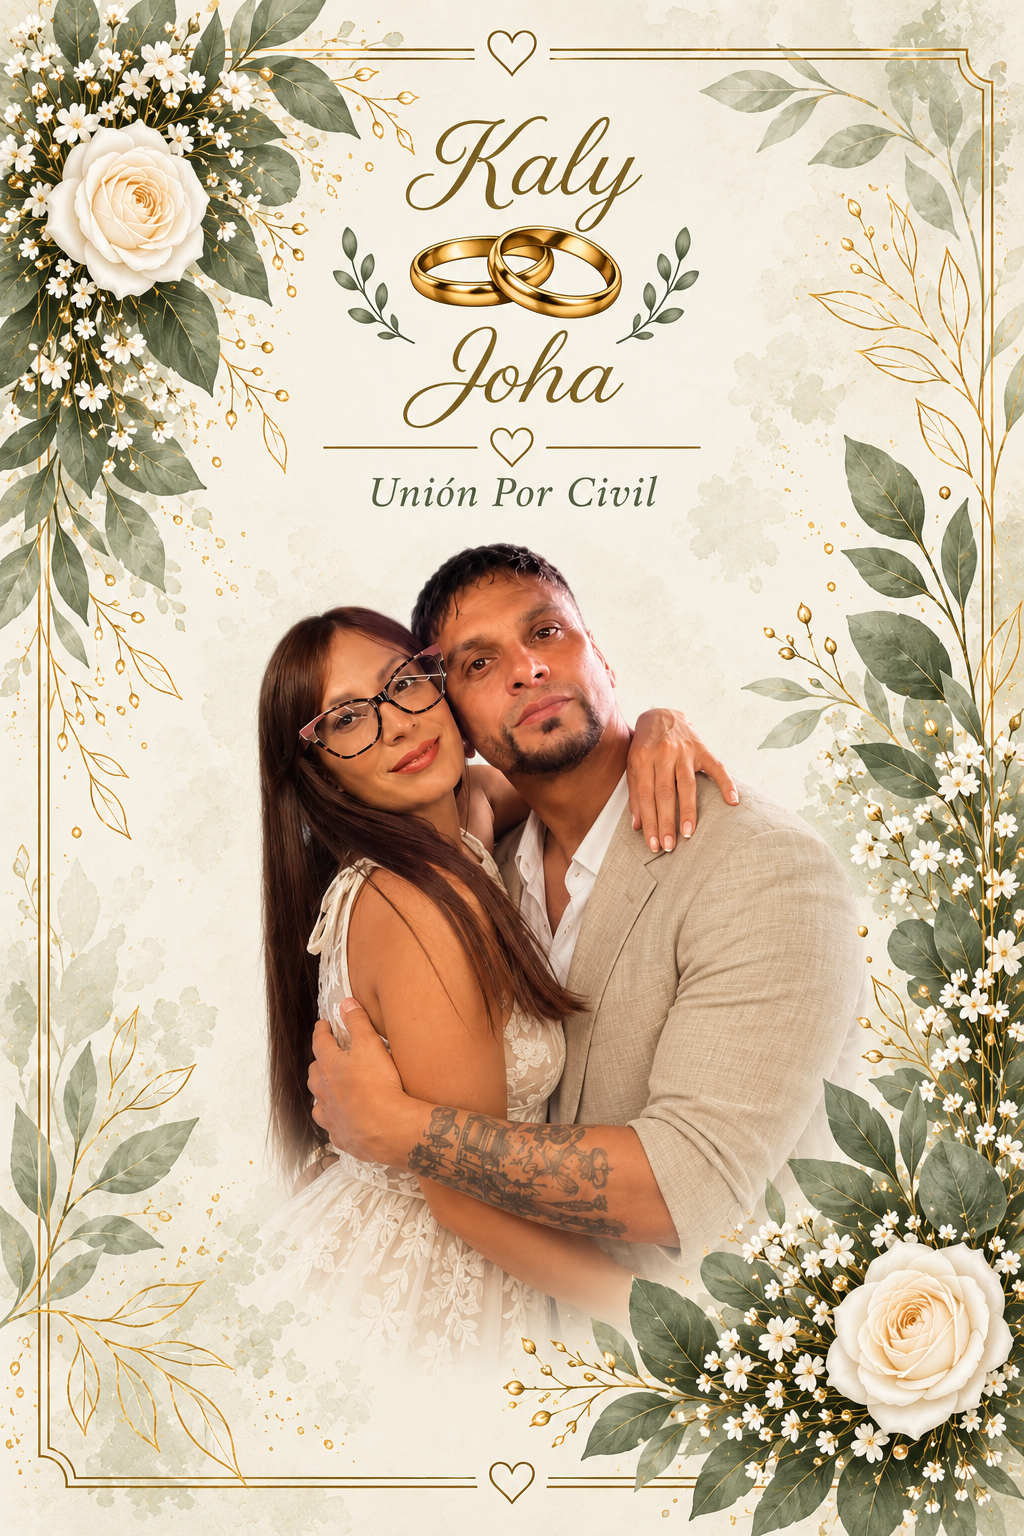
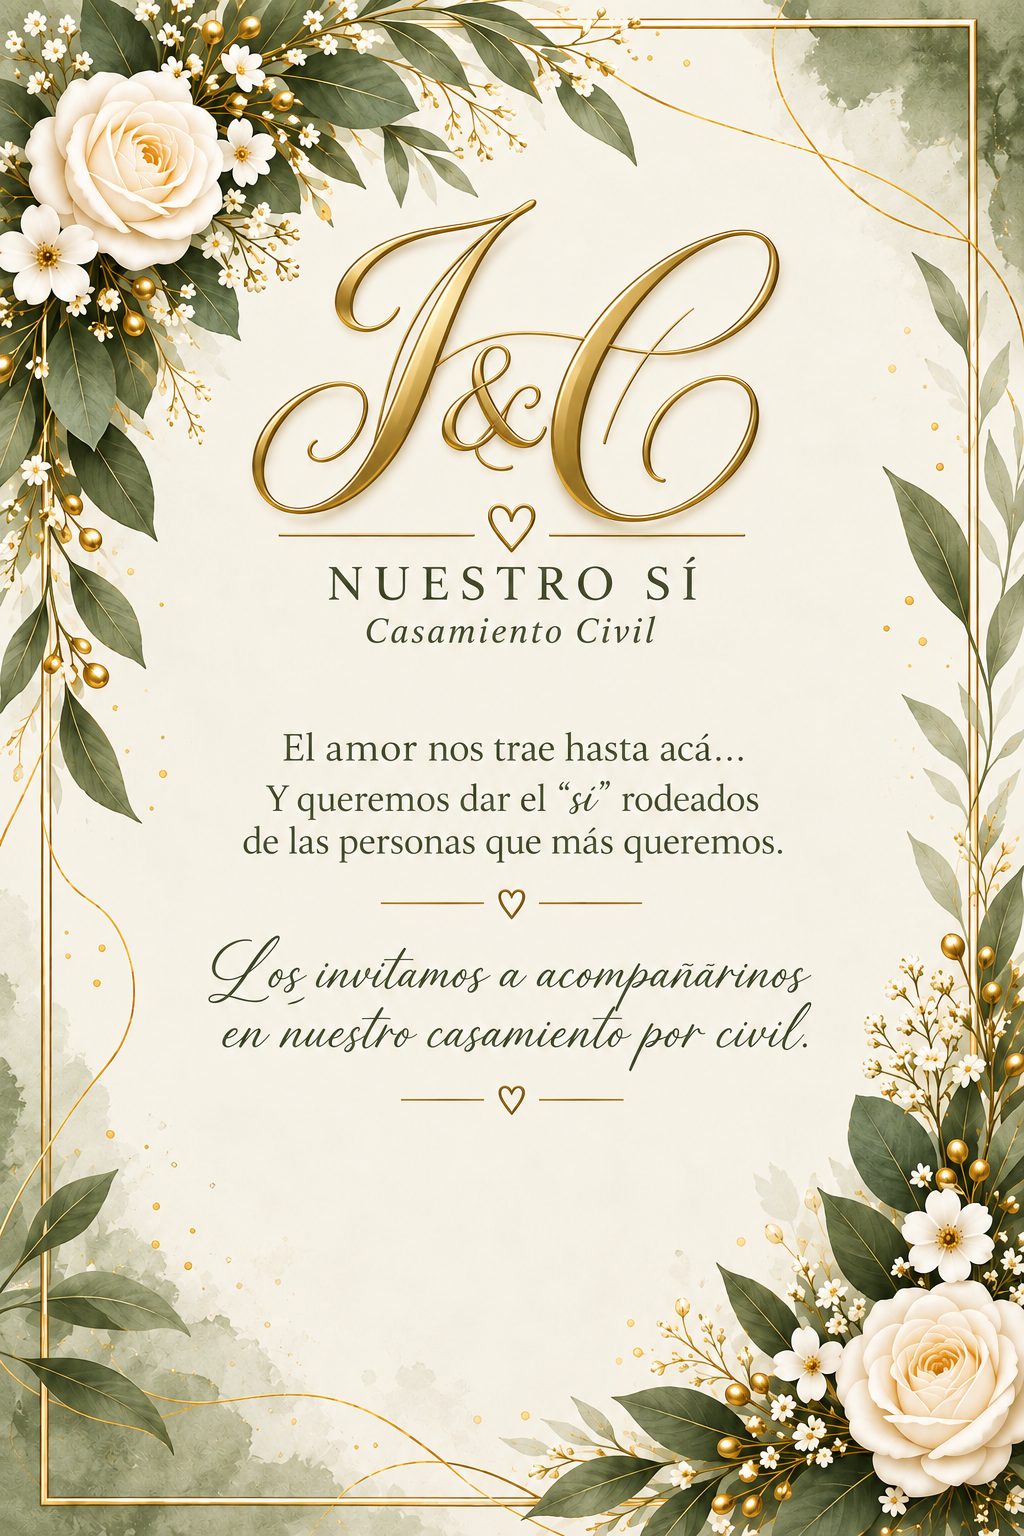
feat: refina datos y presentacion de boda Kaly y Joha

diff --git a/js/invitacion.js b/js/invitacion.js
@@ -497,6 +497,8 @@ function renderEventInfoPage(section, context) {
     const image = context.getSectionImage(section, context.pageIndex);
     const inlineMedia = shouldRenderContainedMedia(section);
     const locationText = firstSectionValue(data.locationText, data.place, getLocationText(event));
+    const addressText = firstSectionValue(data.address, event.lugarDireccion, event.location?.address, locationText);
+    const cityText = firstSectionValue(data.city, event.lugarCiudad, event.location?.city);
     const message = data.showMessage === false ? "" : firstSectionValue(data.message);
 
     return `
@@ -505,10 +507,10 @@ function renderEventInfoPage(section, context) {
                 ${image && inlineMedia ? renderSectionMedia(section, image) : ""}
                 ${message ? `<p class="page-message">${escapeHtml(message)}</p>` : ""}
                 ${renderDetailsList([
-        renderDetail("calendar", "Fecha", firstSectionValue(data.dateText, event.fechaTexto)),
-        renderDetail("clock", "Horario", firstSectionValue(data.timeText, event.horarioTexto)),
-        renderDetail("pin", "Lugar", locationText)
-    ])}
+                    renderDetail("calendar", "Fecha", firstSectionValue(data.dateText, event.fechaTexto)),
+                    renderDetail("clock", "Horario", firstSectionValue(data.timeText, event.horarioTexto)),
+                    renderAddressDetail(addressText, cityText)
+                ])}
             </div>
             ${context.renderBrochureNavigation(context.pageCount)}
         </section>
@@ -521,6 +523,7 @@ function renderLocationPage(section, context) {
     const hasEventInfo = hasEventInfoDetails(event);
     const locationText = firstSectionValue(data.locationText, data.place, getLocationText(event));
     const addressText = firstSectionValue(data.address, event.lugarDireccion, locationText);
+    const cityText = firstSectionValue(data.city, event.lugarCiudad, event.location?.city);
     const message = firstSectionValue(data.message, hasEventInfoMessage(event) ? "" : event.mensaje);
     const timeText = firstSectionValue(data.timeText, event.horarioTexto);
     const calendar = renderCalendarActions(event);
@@ -530,13 +533,11 @@ function renderLocationPage(section, context) {
             <div class="wedding-content">
                 ${message ? `<p class="page-message">${escapeHtml(message)}</p>` : ""}
                 ${hasEventInfo
-            ? renderDetailsList([
-                renderDetail("pin", "Dirección", addressText)
-            ])
-            : renderDetailsList([
-                renderDetail("clock", "Horario", timeText),
-                renderDetail("pin", "Lugar", locationText)
-            ])}
+                    ? ""
+                    : renderDetailsList([
+                        renderDetail("clock", "Horario", timeText),
+                        renderDetail("pin", "Lugar", locationText)
+                    ])}
                 ${event.googleMapsUrl ? `
                     <div class="actions">
                         <button class="button" type="button" data-map-url="${escapeAttr(event.googleMapsUrl)}">
@@ -548,6 +549,23 @@ function renderLocationPage(section, context) {
             </div>
             ${context.renderBrochureNavigation(context.pageCount)}
         </section>
+    `;
+}
+
+function renderAddressDetail(address, city) {
+    if (!address && !city) return "";
+
+    return `
+        <div class="detail-row detail-row--address">
+            <svg class="detail-icon" viewBox="0 0 24 24" aria-hidden="true">
+                <path fill="currentColor" d="${DETAIL_ICONS.pin}"></path>
+            </svg>
+            <div>
+                <p class="detail-label">Dirección</p>
+                ${address ? `<p class="detail-value">${escapeHtml(address)}</p>` : ""}
+                ${city ? `<p class="detail-value detail-value--secondary">${escapeHtml(city)}</p>` : ""}
+            </div>
+        </div>
     `;
 }
 

diff --git a/test/kaly-joha-draft.test.js b/test/kaly-joha-draft.test.js
@@ -74,6 +74,8 @@ assert.deepStrictEqual(normalized.multimedia.audios, [{
 }]);
 assert.strictEqual(normalized.location.name, "Registro Civil");
 assert.strictEqual(normalized.location.address, "Del Carmen 475");
+assert.strictEqual(normalized.location.city, "Cañuelas");
+assert.strictEqual(normalized.lugarCiudad, "Cañuelas");
 assert.strictEqual(normalized.location.mapsUrl, "https://maps.app.goo.gl/kh3SMJyQ9WeGPJPf7");
 assert.strictEqual(normalized.googleMapsUrl, "https://maps.app.goo.gl/kh3SMJyQ9WeGPJPf7");
 assert.strictEqual(normalized.rsvp.deadline, "15/11/2026");
@@ -98,15 +100,28 @@ const locationHtml = browserContext.renderLocationPage(location, {
     pageCount: renderableSections.length,
     renderBrochureNavigation: () => ""
 });
-assert(locationHtml.includes("Dirección"));
-assert(!locationHtml.includes("DirecciÃ"));
-assert(locationHtml.includes("Del Carmen 475"));
+assert(!locationHtml.includes("Dirección"));
+assert(!locationHtml.includes("Del Carmen 475"));
+assert(!locationHtml.includes("Cañuelas"));
 assert(locationHtml.includes("data-map-url=\"https://maps.app.goo.gl/kh3SMJyQ9WeGPJPf7\""));
 assert(locationHtml.includes("Cómo Llegar"));
 assert(locationHtml.includes("Agendar Evento"));
 assert(locationHtml.includes("https://calendar.google.com/calendar/render?"));
 assert(!locationHtml.includes("Horario"));
 assert(!locationHtml.includes("<p class=\"detail-value\">11:30 hs.</p>"));
+
+const eventInfoHtml = browserContext.renderEventInfoPage(eventInfo, {
+    event: normalized,
+    pageCount: renderableSections.length,
+    getSectionImage: () => eventInfo.data.image,
+    renderBrochureNavigation: () => ""
+});
+assert(eventInfoHtml.includes("Dirección"));
+assert(eventInfoHtml.includes("Del Carmen 475"));
+assert(eventInfoHtml.includes("Cañuelas"));
+assert(eventInfoHtml.indexOf("Del Carmen 475") < eventInfoHtml.indexOf("Cañuelas"));
+assert(!eventInfoHtml.includes("Lugar"));
+assert(!eventInfoHtml.includes("Registro Civil"));
 
 const rsvpHtml = browserContext.renderConfirmationPage(rsvp, {
     event: normalized,

diff --git a/js/core/event-normalizer.js b/js/core/event-normalizer.js
@@ -152,6 +152,7 @@
             horarioTexto: model.event.timeText,
             lugarNombre: model.location.name,
             lugarDireccion: model.location.address,
+            lugarCiudad: model.location.city,
             googleMapsUrl: model.location.mapsUrl,
             googleCalendarUrl: firstString(data.googleCalendarUrl, model.location.calendarUrl),
             audioPlayMode: model.music.playMode,
@@ -204,6 +205,7 @@
         return {
             name: firstString(location.name, location.lugarNombre),
             address: firstString(location.address, location.lugarDireccion),
+            city: firstString(location.city, location.locality, location.localidad, location.lugarCiudad),
             mapsUrl: firstString(location.mapsUrl, location.googleMapsUrl, location.linkMaps),
             calendarUrl: firstString(location.calendarUrl, location.googleCalendarUrl)
         };

diff --git a/test/event-normalizer.test.js b/test/event-normalizer.test.js
@@ -27,6 +27,7 @@ const normalized = normalizeEvent({
     location: {
         name: "Lugar de prueba",
         address: "Direccion de prueba",
+        city: "Ciudad de prueba",
         mapsUrl: "https://example.test/maps"
     },
     rsvp: {
@@ -43,6 +44,8 @@ assert.strictEqual(normalized.sections[1].enabled, false);
 assert.strictEqual(normalized.music.playMode, "playlist");
 assert.strictEqual(normalized.music.tracks.length, 1);
 assert.strictEqual(normalized.location.mapsUrl, "https://example.test/maps");
+assert.strictEqual(normalized.location.city, "Ciudad de prueba");
+assert.strictEqual(normalized.lugarCiudad, "Ciudad de prueba");
 assert.strictEqual(normalized.rsvp.contacts[0].telefono, "5491100000000");
 
 console.log("event-normalizer new schema test passed");

diff --git a/css/templates/boda-civil-esencial.css b/css/templates/boda-civil-esencial.css
@@ -354,6 +354,11 @@ body {
     margin-top: 0;
 }
 
+.wedding-section[data-section-type="rsvp"] .rsvp-block>.detail-value {
+    width: 100%;
+    text-align: center;
+}
+
 .page-message {
     margin: 0;
     color: var(--text-color);
@@ -409,6 +414,13 @@ body {
     align-items: start;
 }
 
+.detail-row--address {
+    grid-template-columns: minmax(0, 1fr);
+    justify-items: center;
+    gap: 10px;
+    text-align: center;
+}
+
 .detail-icon,
 .button-icon,
 .music-icon {
@@ -436,6 +448,12 @@ body {
     font-weight: 600;
     line-height: 1.45;
     overflow-wrap: anywhere;
+}
+
+.detail-value--secondary {
+    margin-top: 2px;
+    color: var(--muted-color);
+    font-weight: 600;
 }
 
 .actions,
